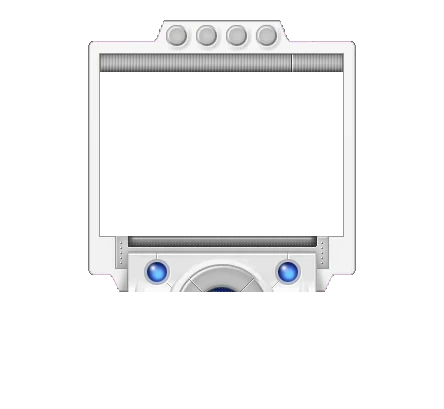
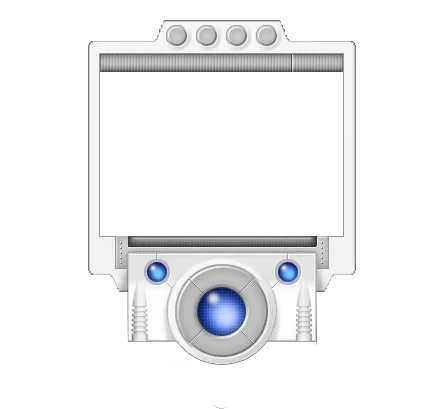
Space skin finished

Changed region(s): [[0.2635, 0.7042, 0.732, 0.9095], [0.4685, 0.9976, 0.527, 1.0]]

diff --git a/src/components/mediaPlayer/skinStyles/Space.css b/src/components/mediaPlayer/skinStyles/Space.css
@@ -77,6 +77,10 @@
     overflow: visible;
 }
 
+/* ─────────────────────────────────────────
+   Base Frame
+───────────────────────────────────────── */
+
 .app-window.player-window.skin-mode[data-skin='space'] .media-player-app {
     position: relative;
     background-color: transparent;
@@ -239,7 +243,7 @@
     gap: var(--space-3);
     align-items: center;
     position: absolute;
-    top: 54px;
+    top: 53px;
     left: 160px;
     width: 230px;
     height: 14px;
@@ -278,7 +282,7 @@
     width: 700px;
     height: 410px;
     position: absolute;
-    transition: transform 0.15s linear, opacity 0.15s linear;
+    transition: transform 0.04s linear, opacity 0.04s linear;
     background-image: var(--skin-video);
     background-size: contain;
     background-repeat: no-repeat;
@@ -378,6 +382,10 @@
     background: transparent;
 }
 
+/* ─────────────────────────────────────────
+   Hide Default Elements
+───────────────────────────────────────── */
+
 [data-skin='space'] .media-player-app .switch-skin {
     display: none;
 }
@@ -405,18 +413,20 @@
 [data-skin='space'].player-window .song-wrap,
 [data-skin='space'].player-window .song-info,
 [data-skin='space'].player-window .volume-track,
-[data-skin='space'].player-window .volume-thumb {
+[data-skin='space'].player-window .volume-thumb,
+[data-skin='space'].player-window .equlizer-toggle,
+[data-skin='space'].player-window .playlist-toggle {
     transition: transform 0.1s cubic-bezier(0.4, 0, 0.2, 1);
     will-change: transform;
 }
 
 [data-skin='space'].player-window.video-open .media-player-app {
-    transform: translate(0, 66px);
+    transform: translate(0, 30px);
     z-index: -2;
 }
 
 [data-skin='space'].player-window.video-open .video-viewer {
-    transform: translate(0, 5px) scale(1);
+    transform: translate(0, 7px) scale(1);
     z-index: 1;
     pointer-events: none;
 }
@@ -467,7 +477,7 @@
 }
 
 [data-skin='space'].player-window.video-open .song-info {
-    transform: translate(-42px, -74px);
+    transform: translate(-42px, -70px);
     width: 315px;
     height: 14px;
     z-index: 2;
@@ -682,39 +692,36 @@
    Drawer Open Layout
 ───────────────────────────────────────── */
 
-[data-skin='space'].player-window:has(.playlist:not(.playlist-hidden)) .asterisk-skin {
-    filter: none;
-    top: 436px;
-    left: 141px;
+[data-skin='space'].player-window .equlizer-toggle,
+[data-skin='space'].player-window .playlist-toggle {
+    transition: transform 0.3s cubic-bezier(0.4, 0, 0.2, 1) 0.5s;
+}
+
+[data-skin='space'].player-window:has(.playlist:not(.playlist-hidden)) .equlizer-toggle,
+[data-skin='space'].player-window:has(.playlist:not(.playlist-hidden)) .playlist-toggle {
+    transition: transform 0.3s cubic-bezier(0.4, 0, 0.2, 1);
 }
 
 [data-skin='space'].player-window:has(.playlist:not(.playlist-hidden)) .equlizer-toggle {
     filter: none;
-    left: 212px;
-    top: 461px;
+    transform: translate(0, 158px);
 }
 
 [data-skin='space'].player-window:has(.playlist:not(.playlist-hidden)) .playlist-toggle {
     filter: none;
-    left: 251px;
-    top: 465px;
+    transform: translate(0, 158px);
 }
 
-[data-skin='space'].player-window:has(.playlist:not(.playlist-hidden)) .show-song-cover {
-    filter: none;
-    top: 453px;
-    left: 176px;
+[data-skin='space'].player-window:has(.playlist:not(.playlist-hidden)) .engine {
+    opacity: 1;
 }
 
+[data-skin='space'] .media-player-app.engine-shutting-down .engine {
+    opacity: 1;
+}
 
-[data-skin='space'].player-window:has(.playlist:not(.playlist-hidden)) .playlist-items {
-    margin: 40px auto 0;
-    padding-inline: 5px;
-    width: 160px;
-    max-height: 150px;
-    overflow-y: auto;
-    scrollbar-width: thin;
-    scrollbar-color: #2c4512 transparent;
+[data-skin='space'] .media-player-app.engine-shutting-down .engine::after {
+    opacity: 1;
 }
 
 
@@ -779,9 +786,10 @@
 [data-skin='space'] .equlizer-toggle {
     position: absolute;
     top: 357px;
-    left: 227px;
+    left: 228px;
     width: 25px;
     height: 25px;
+    filter: none;
     background-color: transparent;
     background-image: var(--skin-equalizer);
     background-size: contain;
@@ -807,9 +815,10 @@
 [data-skin='space'] .playlist-toggle {
     position: absolute;
     top: 357px;
-    left: 296px;
+    left: 300px;
     width: 25px;
     height: 25px;
+    filter: none;
     background-color: transparent;
     background-image: var(--skin-playlist);
     background-size: contain;
@@ -822,6 +831,145 @@
 [data-skin='space'] .playlist-toggle:hover {
    background-image: var(--skin-playlist-hover);
 }
+
+/* ─────────────────────────────────────────
+   Drawer
+───────────────────────────────────────── */
+
+[data-skin='space'] .playlist {
+    background-image: url(../space/Drawer.webp);
+    background-repeat: no-repeat;
+    background-color: transparent;
+    position: absolute;
+    top: 330px;
+    right: 183px;
+    width: 186px;
+    height: 275px;
+    padding-inline: var(--space-5) var(--space-4);
+    color: var(--text);
+    display: flex;
+    flex-direction: column;
+    z-index: -3;
+    opacity: 1;
+    transform: translateY(0);
+    transition: transform 0.3s cubic-bezier(0.4, 0, 0.2, 1), opacity 1.5s cubic-bezier(0.4, 0, 0.2, 1);
+    will-change: transform, opacity;
+}
+
+[data-skin='space'] .playlist-items {
+    margin: 0 -2px 20px auto;
+    padding-inline: 5px 7px;
+    padding-bottom: 10px;
+    width: 160px;
+    max-height: 140px;
+    overflow-y: auto;
+    scrollbar-width: thin;
+    scrollbar-color: #ffffff56 transparent;
+}
+
+[data-skin='space'] .playlist-items li { 
+    background-color: #ffffff4a;
+    opacity: 1;
+    transition: opacity 0.8s cubic-bezier(0.4, 0, 0.2, 1);
+}
+
+[data-skin='space'] .playlist.playlist-hidden {
+    transform: translateY(-158px);
+    opacity: 1;
+    transition: transform 0.3s cubic-bezier(0.4, 0, 0.2, 1) 0.5s, opacity 0.3s cubic-bezier(0.4, 0, 0.2, 1) 0.5s;
+}
+
+
+[data-skin='space'] .playlist.playlist-hidden .playlist-items li {
+    opacity: 0;
+    transition: opacity 0.8s cubic-bezier(0.4, 0, 0.2, 1);
+}
+
+[data-skin='space'] .playlist-close {
+    position: relative;
+    top: 206px;
+    left: 78px;
+    display: block;
+    width: 19px;
+    height: 19px;
+    filter: none;
+    border: none;
+    background-color: transparent;
+    background-image: url(../space/DrawerDefault.webp);
+    background-size: contain;
+    background-repeat: no-repeat;
+    background-position: center;
+}
+
+[data-skin='space'] .playlist-close:hover {
+    background-image: url(../space/DrawerHover.webp);
+}
+
+[data-skin='space'] .playlist-close:active {
+    background-image: url(../space/DrawerActive.webp);
+}
+
+[data-skin='space'] .playlist-close[data-tooltip]:hover::after {
+    bottom: auto;
+    top: calc(100% + 4px);
+}
+
+
+/* ─────────────────────────────────────────
+   Engines
+───────────────────────────────────────── */
+.engine {
+    display: block;
+    position: absolute;
+    bottom: 8px;
+    width: 58px;
+    height: 62px;
+    background-color: transparent;
+    background-size: contain;
+    background-repeat: no-repeat;
+    background-position: center;
+    z-index: 1;
+    transition: opacity 0.4s ease-in;
+    opacity: 0;
+}
+
+.engine.engine-left {
+    background-image: url(../space/anim_booster_left_open.gif);
+    left: 123px;
+}
+
+.engine.engine-right {
+    background-image: url(../space/anim_booster_right_open.gif);
+    left: 368px;
+}
+
+
+.engine.engine-left::after,
+.engine.engine-right::after {
+    background-color: transparent;
+    background-size: contain;
+    background-repeat: no-repeat;
+    background-position: center;
+    transition: opacity 0.4s ease-out;
+    opacity: 0;
+}
+
+
+.engine.engine-left::after {
+    content: '';
+    position: absolute;
+    inset: 0;
+    background-image: url(../space/anim_booster_left_close.gif);
+}
+
+
+.engine.engine-right::after {
+    content: '';
+    position: absolute;
+    inset: 0;
+    background-image: url(../space/anim_booster_right_close.gif);
+}
+
 
 
 

diff --git a/src/components/mediaPlayer/MediaPlayerApp.tsx b/src/components/mediaPlayer/MediaPlayerApp.tsx
@@ -138,10 +138,22 @@ const MediaPlayerApp = ({
     const [currentTime, setCurrentTime] = useState(0);
     const [vizDropdownOpen, setVizDropdownOpen] = useState(false);
     const [playlistHidden, setPlaylistHidden] = useState(skinMode);
+    const [engineShuttingDown, setEngineShuttingDown] = useState(false);
+    const prevPlaylistHiddenRef = useRef(playlistHidden);
 
     useEffect(() => {
         setPlaylistHidden(skinMode);
     }, [skinMode]);
+
+    useEffect(() => {
+        if (!prevPlaylistHiddenRef.current && playlistHidden) {
+            setEngineShuttingDown(true);
+            const t = setTimeout(() => setEngineShuttingDown(false), 1000);
+            prevPlaylistHiddenRef.current = playlistHidden;
+            return () => clearTimeout(t);
+        }
+        prevPlaylistHiddenRef.current = playlistHidden;
+    }, [playlistHidden]);
     const [playPressed, setPlayPressed] = useState(false);
     const [playlistDropdownOpen, setPlaylistDropdownOpen] = useState(false);
 
@@ -256,9 +268,13 @@ const MediaPlayerApp = ({
     }, [playlistDropdownOpen]);
 
     return (
-        <div className='media-player-app'>
+        <div className={`media-player-app${engineShuttingDown ? ' engine-shutting-down' : ''}`}>
             {/* ── Audio Element ── */}
             <div className={`video-viewer${videoOpen ? ' open' : ''}`}></div>
+
+            {/* Space skin - decorative elements */}
+            <div className="engine-left engine" aria-hidden tabIndex={-1}></div>
+            <div className="engine-right engine" aria-hidden tabIndex={-1}></div>
 
             {/* ── Audio Element ── */}
             <audio
@@ -437,10 +453,10 @@ const MediaPlayerApp = ({
             {/* ── Playlist ── */}
             <aside className={`playlist${playlistHidden ? ' playlist-hidden' : ''}`}>
                 <button
-                    className='playlist-close'
-                    aria-label='close playlist'
-                    data-tooltip='Close playlist'
-                    onClick={() => setPlaylistHidden(true)}
+                    className='playlist-close'            
+                    aria-label={playlistHidden ? 'show playlist' : 'close playlist'}
+                    data-tooltip={playlistHidden ? 'Show playlist' : 'Close playlist'}
+                    onClick={() => setPlaylistHidden(prev => !prev)}
                 ></button>
                 <div className='open-playlist' ref={playlistDropdownRef}>
                     <div className='playlist-label'>Current Playlist</div>

diff --git a/src/components/mediaPlayer/MediaPlayer.css b/src/components/mediaPlayer/MediaPlayer.css
@@ -24,6 +24,10 @@
     display: none;
 }
 
+.engine {
+    display: none;
+}
+
 .app-window.app-window--fullscreen .media-player-app {
     background: 
         url(./background/WMPBackground.webp);
